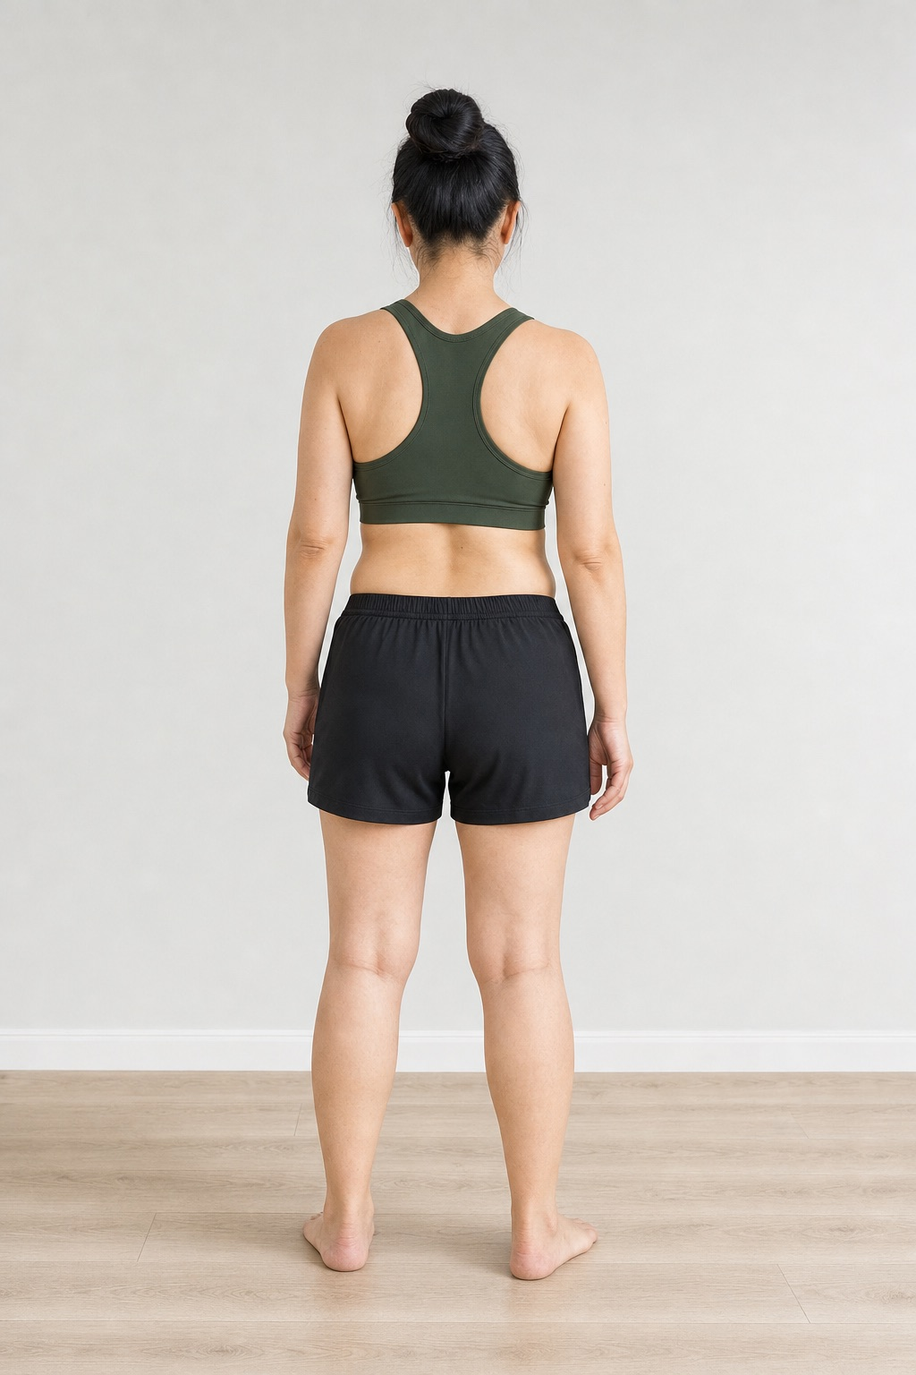
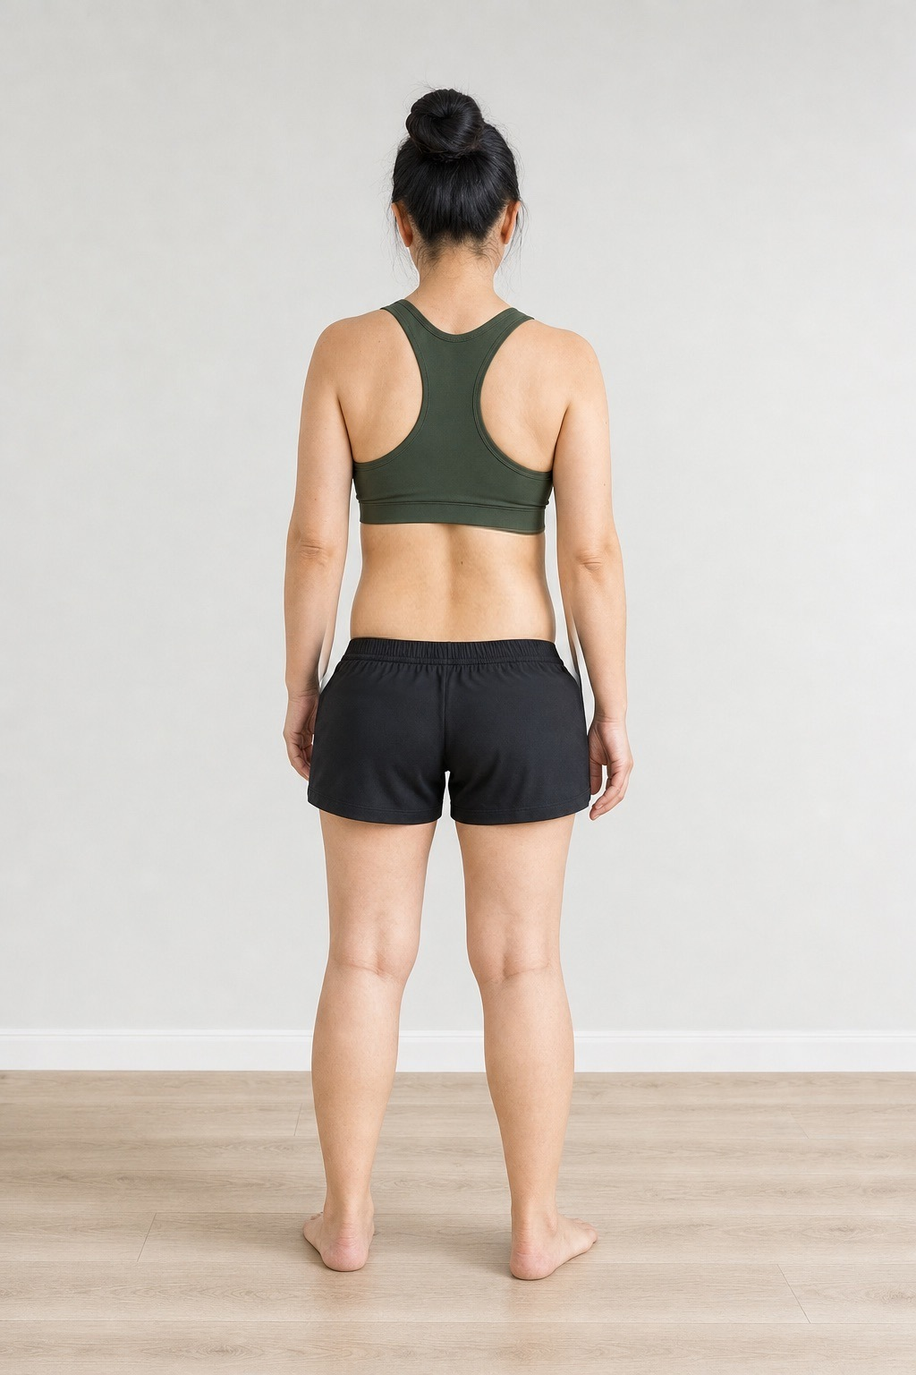
v1.6：穿著規範併入照片範例頁＋髂骨標示，範例圖褲頭降低、教學圖重產，移除獨立穿著頁

Changed region(s): [[0.3438, 0.375, 0.6562, 0.5]]

diff --git a/index.html b/index.html
@@ -123,7 +123,7 @@ p.hint{font-size:18px;margin:2px 0}
 .axfin .im{height:min(24vh,190px);overflow:hidden}.axfin .im img{height:100%;mix-blend-mode:multiply;filter:saturate(.6)}
 .axfin b{font-family:var(--fs);font-size:18px;color:var(--ink)}.axfin span{font-size:15px;color:var(--brown);letter-spacing:.1em}.axfin p{font-size:14px;line-height:1.5;margin:4px 0 0;text-align:left;color:var(--muted)}
 .axfin .plus{font-size:24px;color:var(--brown);text-align:center}
-.dress{display:flex;flex-direction:column;border:1px solid var(--line);border-radius:10px;overflow:hidden}.dress div{display:grid;grid-template-columns:64px 1fr;gap:10px;padding:10px 12px;font-size:17px;line-height:1.5}.dress div+div{border-top:1px solid var(--line)}.dress b{color:var(--brown);font-family:var(--fs)}
+.chk .chip{font-size:14px;padding:5px 10px;line-height:1.3;white-space:nowrap}.zoom{margin:12px 0 4px}.zoom img{width:100%;border-radius:6px;display:block}.zoom figcaption{font-size:15px;color:var(--ink);margin-top:6px;text-align:center}
 </style>
 </head>
 <body>
@@ -141,9 +141,9 @@ const ZT = [{name:'上半身', parts:['頭頸','肩膀','上背','手肘手腕']
 const DC={}; async function fillDC(){ const els=document.querySelectorAll('img[data-dc]'); if(!els.length) return; await demoP; els.forEach(el=>{ const k=el.dataset.dc; if(!DC[k]){ const b=k.split(',').map(Number), W=Math.min(900,Math.round(b[2]-b[0])), H=Math.round(W*(b[3]-b[1])/(b[2]-b[0])), c=document.createElement('canvas'); c.width=W; c.height=H; drawCrop(c.getContext('2d'),DEMO_IMG,b,W,H); DC[k]=c.toDataURL('image/jpeg',.88); } el.src=DC[k]; }); }
 const PRAISE = ['很好！','答得好！','你很認真喔','觀察得真仔細','做得很棒','就是這樣！','好棒，繼續加油'];
 const S = {doc:false, snd:true, i:0, t0:null, a:{}, mv:{}, ph:{mode:null,img:null,lm:null,ai:null}, crops:null, regions:null, cmp:{}, res:null, slide:0, rp:0, saved:false, fit:null, docJ:null};
-const FLOW = ['cover','brief','axes','pre', ...QS.map(q=>q.id), 'rw1', ...MOVES.map(m=>m.id), 'rw2', ...(TRIAL?[]:['ph0','ph1','ph2','ph3', ...PTS.map(p=>p.id), ...(CMPS.length>1?['look']:[]), ...CMPS.map(c=>c.id), 'rw3']), 'inter','scan','result'];
+const FLOW = ['cover','brief','axes','pre', ...QS.map(q=>q.id), 'rw1', ...MOVES.map(m=>m.id), 'rw2', ...(TRIAL?[]:['ph1','ph2','ph3', ...PTS.map(p=>p.id), ...(CMPS.length>1?['look']:[]), ...CMPS.map(c=>c.id), 'rw3']), 'inter','scan','result'];
 const STAGES = ['問一問','動一動','比一比','看結果'];
-const STAGE_OF = n => n==='cover'||n==='brief'||n==='pre'||n==='axes'?0 : n[0]==='Q'||n==='rw1'?1 : n[0]==='M'||n==='rw2'?2 : ['ph0','ph1','ph2','ph3','look','rw3'].includes(n)||n[0]==='P'||n[0]==='K'?3 : 4;
+const STAGE_OF = n => n==='cover'||n==='brief'||n==='pre'||n==='axes'?0 : n[0]==='Q'||n==='rw1'?1 : n[0]==='M'||n==='rw2'?2 : ['ph1','ph2','ph3','look','rw3'].includes(n)||n[0]==='P'||n[0]==='K'?3 : 4;
 const idc = id => S.doc ? `<span class="idchip">${id}</span>` : '';
 const RM = () => matchMedia('(prefers-reduced-motion: reduce)').matches;
 const F = d => `class="fade" style="animation-delay:${d}s"`;
@@ -192,7 +192,7 @@ function render(){
   const n=FLOW[S.i];
   if(n==='inter'||n==='scan'||(n==='result'&&!S.res)) S.res=score(CFG, ansOf());
   if(n==='result') saveEntry();
-  const V={cover:vCover, brief:vBrief, pre:vPre, axes:vAxes, rw1:()=>vReward(1), rw2:()=>vReward(2), rw3:()=>vReward(3), ph0:vPh0, ph1:vPh1, ph2:vPh2, ph3:vPh3, look:vLook, inter:vInter, scan:vScan, result:vResult};
+  const V={cover:vCover, brief:vBrief, pre:vPre, axes:vAxes, rw1:()=>vReward(1), rw2:()=>vReward(2), rw3:()=>vReward(3), ph1:vPh1, ph2:vPh2, ph3:vPh3, look:vLook, inter:vInter, scan:vScan, result:vResult};
   const body = V[n]?V[n]() : n[0]==='Q'?vQ(n) : n[0]==='M'?vMove(n) : n[0]==='K'?vPts(n) : vCmp(n);
   const on=S.snd&&AU.on, left=NOBACK.includes(n)?'<span>時空身體地圖・空間篇</span>':`<button class="bk" data-act="back">‹ 上一步</button>`;
   $('#app').innerHTML = `${PREVIEW?'<div class="pv">醫師預覽模式：正在使用你在後台編輯的設定</div>':''}<div class="top">${left}<div class="r"><button data-act="snd" aria-pressed="${on}">${on?'音樂 開':'音樂 關'}</button><button data-act="doc" aria-pressed="${S.doc}">醫師檢視</button></div></div>${stageBar()}${body}${n==='cover'?'<p class="foot">衛教內容僅供參考，個人狀況請由醫師判斷</p>':''}`;
@@ -279,13 +279,11 @@ function vMove(id){ const m=MOVES.find(x=>x.id===id), k=MOVES.indexOf(m)+1, v=S.
     ${!step2?`<h3>${esc(m.ask)}${idc(m.id)}</h3><div class="opts grid">${sides.map(o=>`<button class="opt c" data-act="mv" data-m="${m.id}" data-k="side" data-v="${o}" aria-pressed="${v.side===o}">${o}</button>`).join('')}</div>`
       :`<h3>${esc(v.side)}的感覺，比較像哪一種？</h3><div class="opts">${feel.map(o=>`<button class="opt" data-act="mv" data-m="${m.id}" data-k="feel" data-v="${o}">${o}</button>`).join('')}</div><button class="btn ghost small" data-act="mvreset" data-m="${m.id}" style="align-self:center">重選左右</button>`}
   </div>${note(m.note)}`; }
-function vPh0(){ const D=CFG.sources.dress; return `<div class="card"><span class="kicker">比一比｜拍照前準備</span><h2 class="mark">${esc(D.t)}</h2><p class="muted">${esc(D.sub)}</p>
-  <div class="dress">${D.rows.map(([a,b],i)=>`<div ${F(.05+i*.07)}><b>${esc(a)}</b><span>${esc(b)}</span></div>`).join('')}</div>${note(D.note)}
-  <button class="btn" data-act="next">換好了，看照片範例</button></div>`; }
-function vPh1(){ return `<div class="card"><span class="kicker">比一比｜拍一張背面照</span><h2 class="mark">照片要拍成這樣</h2>
-  <div class="row" style="align-items:center"><img src="img/demo_back.jpg" alt="正確的背面照範例" style="flex:1;max-height:42vh;object-fit:contain;border-radius:6px;background:var(--soft)"><div style="flex:1;display:flex;flex-direction:column;gap:10px" class="ui"><span class="chip">✓ 頭到腳都拍到</span><span class="chip">✓ 背對手機</span><span class="chip">✓ 肩膀露出來</span><span class="chip">✓ 膝蓋後面露出來</span><span class="chip">✓ 光腳</span></div></div>
-  <div class="ex2">${[[CFG.sources.stance.ok,'✓ '+CFG.sources.stance.t,''],[CFG.sources.stance.no,'✗ '+CFG.sources.stance.bad,'bad']].map(([src,cap,c])=>`<figure class="${c}"><img src="${src}" alt=""><figcaption>${esc(cap)}</figcaption></figure>`).join('')}</div>
-  <p class="muted sm">${esc(CFG.sources.stance.tip)}穿運動內衣或背心、短褲，頭髮綁起來。</p><button class="btn" data-act="next">看怎麼拍</button></div>`; }
+function vPh1(){ const D=CFG.sources.dress, st=CFG.sources.stance; return `<div class="card"><span class="kicker">比一比｜拍一張背面照</span><h2 class="mark">照片要拍成這樣</h2>
+  <div class="row" style="align-items:center"><img src="${D.img}" alt="正確的背面照範例" style="flex:1.05;min-width:0;max-height:40vh;object-fit:contain;border-radius:6px;background:var(--soft)"><div style="flex:1;display:flex;flex-direction:column;gap:6px" class="ui chk">${D.checks.map((t,i)=>`<span class="chip" ${F(.05+i*.05)}>✓ ${esc(t)}</span>`).join('')}</div></div>
+  ${D.zoom?`<figure class="zoom"><img src="${D.zoom}" alt="髂骨位置"><figcaption>${esc(D.zoomCap||'')}</figcaption></figure>`:''}${note(D.note)}
+  <div class="ex2">${[[st.ok,'✓ '+st.t,''],[st.no,'✗ '+st.bad,'bad']].map(([src,cap,c])=>`<figure class="${c}"><img src="${src}" alt=""><figcaption>${esc(cap)}</figcaption></figure>`).join('')}</div>
+  <p class="muted sm">${esc(st.tip)}</p><button class="btn" data-act="next">看怎麼拍</button></div>`; }
 function vPh2(){ const st=CFG.sources.photoSteps;
   return `<div class="card"><span class="kicker">比一比｜怎麼拍</span><h2 class="mark">用手機直直的錄影</h2><div class="flip big" data-flip data-steps="1">${st.map(([src],i)=>`<img src="${src}" alt="" class="${i===0?'on':''}">`).join('')}<div class="fd">${st.map((_,i)=>`<i class="${i===0?'on':''}"></i>`).join('')}</div><div class="cap" hidden data-caps='${JSON.stringify(st.map(f=>f[1])).replace(/'/g,'&#39;')}'></div></div>
   <ol class="bigsteps">${st.map(([,t],i)=>`<li class="${i===0?'on':''}"><b>${i+1}</b>${esc(t)}</li>`).join('')}</ol><button class="btn" data-act="next">錄好了，下一步</button></div>`; }
@@ -351,7 +349,7 @@ function reportPages(){
   P.push(['一眼看懂',`<span class="kicker" ${F(0)}>一眼看懂</span><div ${F(.1)}>${qpTag(r.qs,r.main||r.lean,{w:620,src:'user'},'mapimg')}${lvLegend()}</div>
     <p class="say" ${F(.35)}>${say}</p>${r.main?`<div class="sure" ${F(.6)}>${dots(r.nAgree)}<span>${r.nAgree>=3?'三個提示都這樣說':'三個提示裡有兩個這樣說'}</span></div>`:''}${S.a.struct==='有'?`<div class="warnbox" ${F(.7)}>${esc(EX.pre.caveat)}</div>`:''}${TRIAL?`<div class="warnbox" ${F(.7)}>試用版只用了回答和動作。完整版會加上一張背面照，看得更準。</div>`:''}<p class="muted sm" ${F(.75)}>${esc(EX.disclaimer)}往後翻，看為什麼、今天可以做什麼。</p>`]);
   if(prevs.length) P.push(['這段時間的變化',`<span class="kicker">這段時間的變化</span><h2 class="mark">你已經記錄 ${H.length} 次了</h2><div class="histrow">${H.slice(-6).map(e=>`<div class="hm ${e.id===S.entryId?'now':''}">${qpTag(qsOf(e),e.m,{w:150,labels:false})}<span>${esc(e.d)}${e.id===S.entryId?'（今天）':''}${e.demo?'＊':''}</span></div>`).join('')}</div>${chartSVG(H.slice(-6))}<p>${changeSentence(H.slice(-6))}</p>${H.some(e=>e.demo)?'<p class="muted sm">＊示範紀錄</p>':''}`]);
-  P.push(['為什麼這樣說',`<span class="kicker">為什麼這樣說</span><h2 class="mark">你今天找到 ${r.votes.length} 個提示</h2><div class="row" style="align-items:flex-start"><div style="flex:1">${hasPhoto?'<img id="annot" alt="" style="width:100%;border-radius:6px;max-height:46vh;object-fit:contain;background:#2a2420">':qpTag(r.qs,r.main,{w:300,labels:false})}</div>
+  P.push(['為什麼這樣說',`<span class="kicker">為什麼這樣說</span><h2 class="mark">你今天找到 ${r.votes.length} 個提示</h2><div class="row" style="align-items:flex-start"><div style="flex:1">${hasPhoto?'<img id="annot" alt="" style="width:100%;border-radius:6px;max-height:40vh;object-fit:contain;background:#2a2420">':qpTag(r.qs,r.main,{w:300,labels:false})}</div>
     <div style="flex:1.1;display:flex;flex-direction:column;gap:8px"><div class="quad2">${QUADS.map(cell).join('')}</div><div class="ui sm" style="display:flex;flex-direction:column;gap:4px">${r.votes.map(v=>`<span>・${esc(v.label)}</span>`).join('')||'這次沒有明確的提示'}${S.a.scar&&S.a.scar!=='沒有'?`<span class="muted">・${esc(S.a.scar)}有開刀的疤（不計分，醫師會參考）</span>`:''}</div></div></div>
     <p class="muted sm">至少 ${CFG.logic.minAgree} 種提示（回答、動作、照片）指向同一邊，才會說「這邊比較緊繃」。輕微不一樣很正常。</p>`]);
   const finds=[];
@@ -454,7 +452,7 @@ function annotate(){ const el=$('#annot'); if(!el||!S.ph.img) return; const {img
 
 // ---------- 回報（直接送到 Benson 信箱） ----------
 const RK='sk_reports_v1';
-function screenCtx(){ const n=FLOW[S.i], item=QS.find(x=>x.id===n)||MOVES.find(x=>x.id===n)||CMPS.find(x=>x.id===n); const stage=n==='pre'?'使用前先知道':n[0]==='Q'?'問答':n[0]==='M'?'動作':n[0]==='P'?'照片對照':n==='result'?'結果報告第 '+(S.rp+1)+' 頁':n==='inter'?'完成過場':(['ph0','ph1','ph2','ph3','look'].includes(n)||n[0]==='K')?'照片':'其他'; return {n, stage, id:item?item.id:n, text:item?(item.t||item.ask||''):''}; }
+function screenCtx(){ const n=FLOW[S.i], item=QS.find(x=>x.id===n)||MOVES.find(x=>x.id===n)||CMPS.find(x=>x.id===n); const stage=n==='pre'?'使用前先知道':n[0]==='Q'?'問答':n[0]==='M'?'動作':n[0]==='P'?'照片對照':n==='result'?'結果報告第 '+(S.rp+1)+' 頁':n==='inter'?'完成過場':(['ph1','ph2','ph3','look'].includes(n)||n[0]==='K')?'照片':'其他'; return {n, stage, id:item?item.id:n, text:item?(item.t||item.ask||''):''}; }
 function openReport(){ const ctx=screenCtx(), types=['看不懂','結果不準','畫面怪怪的','我有建議'];
   const sh=document.createElement('div'); sh.className='sheet'; sh.id='sheet';
   sh.innerHTML=`<div class="in" role="dialog" aria-label="回報"><div class="row" style="align-items:center"><h3 style="flex:3">回報給我們</h3><button class="btn ghost small" data-act="closerep" style="flex:none">關閉</button></div>

diff --git a/doctor.html b/doctor.html
@@ -98,7 +98,7 @@ function vSrc(){ const s=CFG.sources;
       ${fld('名稱',P+'.name')}${fld('問學員',P+'.ask')}${fld('算在',P+'.half','half')}${fld('權重倍數',P+'.w','num',{hint:'× 感覺分數'})}${fld('安全提醒（可空白）',P+'.safety')}${fld('教學文字',P+'.teach','area')}
       ${(m.frames||[]).map((fr,j)=>fld('步驟 '+(j+1),P+'.frames.'+j+'.1')).join('')}${fld('備註／依據',P+'.note','area')}</div>`; }).join('')}
     <button class="btn ghost small addbtn" data-act="addM">＋ 新增動作（示範圖由 PPA 補拍）</button></div>
-    <div class="sec"><h2>拍照前準備：穿著（學員必經）</h2>${s.dress?fld('標題','sources.dress.t')+fld('說明','sources.dress.sub')+s.dress.rows.map((r,j)=>fld(r[0],'sources.dress.rows.'+j+'.1','area')).join(''):''}</div>
+    <div class="sec"><h2>照片範例頁：穿著與拍照檢查清單</h2>${s.dress&&s.dress.checks?fld('髂骨特寫說明','sources.dress.zoomCap')+fld('下方小字','sources.dress.note','area')+s.dress.checks.map((r,j)=>fld('第 '+(j+1)+' 條','sources.dress.checks.'+j)).join(''):''}</div>
     <div class="sec"><h2>拍照教學（學員必經）</h2>
       ${(s.photoSteps||[]).map((st,j)=>fld('步驟 '+(j+1),'sources.photoSteps.'+j+'.1')).join('')}
       ${s.stance?fld('標準站姿（正確）','sources.stance.t')+fld('不標準的樣子','sources.stance.bad')+fld('站姿小提醒','sources.stance.tip','area'):''}${fld('截圖頁標題','sources.photoShot.t')}${fld('截圖頁說明','sources.photoShot.sub','area')}</div>
@@ -177,7 +177,7 @@ function vSend(){ const changes=diffCfg(D, CFG);
 const LBL={tip:'說明',ratio2:'給2分的左右比',ratio1:'給1分的左右比',tilt2:'給2分的傾斜',tilt1:'給1分的傾斜',tiltMax:'無參照最多給',on:'啟用',see:'看哪裡',mean:'代表什麼',end:'最後一句',safety:'安全提醒',items:'三件事',caveat:'提醒',ask:'問學員',tip:'小提醒',max:'上限分數',t:'題目',sub:'說明',o:'選項',name:'名稱',ask:'問學員',how:'怎麼看',half:'算在',w:'權重',teach:'教學文字',see:'教學：看哪裡',mean:'教學：代表什麼',enabled:'啟用',note:'備註',area:'白話區域',say:'一句話結論',unit:'優先章節',todo:'今天可以先做',ch:'章節',why:'為什麼看',mode:'計分方式',minScore:'最低緊繃分數',minAgree:'至少幾種來源同向',minDeg:'角度門檻',photoRequest:'照片點位需求',nightMove:'睡前動作說明',disclaimer:'不是診斷的提醒'};
 function flat(o, pre, out){ if(Array.isArray(o)&&o.length&&typeof o[0]==='object'&&!Array.isArray(o[0])&&o[0].id){ o.forEach(x=>flat(x, pre+'〔'+x.id+'〕', out)); return out; }
   if(o&&typeof o==='object'&&!Array.isArray(o)){ Object.keys(o).forEach(k=>flat(o[k], pre?pre+'.'+k:k, out)); return out; } out[pre]=o; return out; }
-const SEC={dress:'穿著準備',rows:'項目',measure:'照片量測',cues:'量測項目',axes:'四個方向',points:'確認點位',pre:'使用前先知道',stance:'站姿',injuryTodo:'舊傷建議',scarTodo:'疤痕建議',points:'確認點位',photoSteps:'拍照步驟',photoShot:'截圖頁',levels:'分數等級',questions:'問診',moves:'動作',compares:'照片',units:'章節',quadrants:'結論',feelWeight:'感覺分數',aiMeasure:'電腦量角度',fixedTodo:'姿勢建議',feelText:'感覺說明',score:'計分',map:'對應',none:'不明顯',frames:'步驟'};
+const SEC={dress:'穿著檢查清單',checks:'清單',measure:'照片量測',cues:'量測項目',axes:'四個方向',points:'確認點位',pre:'使用前先知道',stance:'站姿',injuryTodo:'舊傷建議',scarTodo:'疤痕建議',points:'確認點位',photoSteps:'拍照步驟',photoShot:'截圖頁',levels:'分數等級',questions:'問診',moves:'動作',compares:'照片',units:'章節',quadrants:'結論',feelWeight:'感覺分數',aiMeasure:'電腦量角度',fixedTodo:'姿勢建議',feelText:'感覺說明',score:'計分',map:'對應',none:'不明顯',frames:'步驟'};
 const nice = p => p.replace(/^(sources|logic|explain)\./,'').split('.').map(k=>LBL[k]||SEC[k]||QN[k]||(/^\d+$/.test(k)?'':k)).filter(Boolean).join(' ').replace(/\s+〔/g,'〔').trim();
 const show = v => Array.isArray(v)?v.map(x=>Array.isArray(x)?x[1]:x&&typeof x==='object'?(x.name!=null?x.name+(x.max!=null?'（到 '+x.max+' 分）':''):JSON.stringify(x)):x).join('／'):typeof v==='boolean'?(v?'是':'否'):v==null?'（無）':String(v);
 function diffCfg(a,b){ const A=flat(a,'',{}), B=flat(b,'',{}), keys=[...new Set([...Object.keys(A),...Object.keys(B)])].filter(k=>k!=='version'), out=[];

diff --git a/engine.js b/engine.js
@@ -3,10 +3,10 @@
 // =====================================================================
 const QN = {LU:'左上',RU:'右上',LD:'左下',RD:'右下'};
 const QUADS = ['LU','RU','LD','RD'];
-const DEMO_LM = { earL:[481,222,1], earR:[554,233,1], shL:[379,395,1], shR:[648,412,1], wrL:[349,780,.74], wrR:[683,801,.88], idxL:[344,824,.61], idxR:[680,845,.78], hipL:[429,764,1], hipR:[575,765,1], knL:[417,1075,.94], knR:[587,1084,.98], anL:[394,1359,.95], anR:[607,1361,.97], heL:[399,1407,.91], heR:[594,1406,.95],
+const DEMO_LM = { earL:[481,222,1], earR:[554,233,1], shL:[379,395,1], shR:[648,412,1], wrL:[349,780,.74], wrR:[683,801,.88], idxL:[344,824,.61], idxR:[680,845,.78], hipL:[429,774,1], hipR:[575,774,1], knL:[417,1075,.94], knR:[587,1084,.98], anL:[394,1359,.95], anR:[607,1361,.97], heL:[399,1407,.91], heR:[594,1406,.95],
   nkL:[455,332,1], nkR:[557,336,1], stL:[368,360,1], stR:[645,367,1], uoL:[345,410,1], uoR:[672,415,1],
   umL:[358,540,1], umR:[650,540,1], olL:[348,610,1], olR:[657,628,1], fmL:[341,720,1], fmR:[667,720,1],
-  wcL:[349,782,1], wcR:[683,801,1], hcL:[346,806,1], hcR:[682,825,1], icL:[393,643,1], icR:[618,643,1],
+  wcL:[349,782,1], wcR:[683,801,1], hcL:[346,806,1], hcR:[682,825,1], icL:[393,680,1], icR:[618,680,1],
   piL:[458,1082,1], poL:[407,1083,1], koL:[373,1083,1], piR:[543,1088,1], poR:[613,1088,1], koR:[642,1090,1],
   a1L:[392,1285,1], a2L:[390,1375,1], hbL:[392,1417,1], a1R:[594,1285,1], a2R:[595,1380,1], hbR:[587,1425,1] };
 const PT_KEYS = Object.keys(DEMO_LM);
@@ -61,7 +61,7 @@ const clone = o => JSON.parse(JSON.stringify(o));
 const PREVIEW_KEY = 'sk_cfg_preview';
 function migrateCfg(c){ if(!c||!c.sources) return c; const qs=c.sources.questions, i=qs.findIndex(q=>q.type==='bodymap'&&q.zone==null);
   if(i>=0){ const def=window.DEFAULT_CONFIG.sources.questions.filter(q=>q.type==='bodymap'); qs.splice(i,1,...clone(def)); }
-  const D=window.DEFAULT_CONFIG; ['points','photoSteps','photoShot','dress'].forEach(k=>{ if(!c.sources[k]) c.sources[k]=clone(D.sources[k]); }); if(c.explain&&!c.explain.levels) c.explain.levels=clone(D.explain.levels);
+  const D=window.DEFAULT_CONFIG; ['points','photoSteps','photoShot','dress'].forEach(k=>{ if(!c.sources[k]) c.sources[k]=clone(D.sources[k]); }); if(!c.sources.dress.checks) c.sources.dress=clone(D.sources.dress); if(c.explain&&!c.explain.levels) c.explain.levels=clone(D.explain.levels);
   if(c.explain&&c.explain.levels&&c.explain.levels[0].name==='還好') c.explain.levels=clone(D.explain.levels);
   ['pre','injuryTodo','scarTodo'].forEach(k=>{ if(c.explain&&c.explain[k]==null) c.explain[k]=clone(D.explain[k]); }); if(!c.sources.stance) c.sources.stance=clone(D.sources.stance);
   (c.sources.compares||[]).forEach(cp=>{ const d=D.sources.compares.find(x=>x.key===cp.key); if(cp.key==='L2'&&cp.ex&&cp.ex.some(e=>/knee_/.test(e[0]))){ delete cp.ex; Object.assign(cp,{ask:d.ask,how:d.how,see:d.see,mean:d.mean}); } if(cp.key==='U4'&&!cp.ex&&d.ex){ cp.ex=clone(d.ex); Object.assign(cp,{ask:d.ask,how:d.how,see:d.see,mean:d.mean}); } });

diff --git a/stats.html b/stats.html
@@ -35,9 +35,9 @@ body{font-size:14.5px}
 <script>
 const $=s=>document.querySelector(s), esc=s=>String(s??'').replace(/[&<>"]/g,c=>({'&':'&amp;','<':'&lt;','>':'&gt;','"':'&quot;'}[c]));
 const KEY=new URLSearchParams(location.search).get('key')||'';
-const NAME={ph0:'拍照前穿著',axes:'四個方向',K5:'確認點位5 膝後',K6:'確認點位6 腳跟',pre:'使用前先知道',feet_out:'外八提醒',K1:'確認點位1 肩膀',K2:'確認點位2 手肘',K3:'確認點位3 手腕手掌',K4:'確認點位4 骨盆',cover:'封面',brief:'四件事說明',rw1:'第1段完成',rw2:'第2段完成',rw3:'第3段完成',ph1:'拍照範例',ph2:'怎麼拍',ph3:'選照片',points:'確認點位',look:'看哪裡',inter1:'過場：謝謝你',inter2:'過場：什麼是空間',inter3:'過場：痛不一定是源頭',scan:'分析動畫',report1:'報告：一眼看懂',report2:'報告 p2',report3:'報告 p3',report4:'報告 p4',report5:'報告 p5',report6:'報告 p6',report7:'報告 p7',report8:'報告 p8'};
+const NAME={ph0:'拍照前穿著',axes:'四個方向',K5:'確認點位5 膝後',K6:'確認點位6 腳跟',pre:'使用前先知道',feet_out:'外八提醒',K1:'確認點位1 肩膀',K2:'確認點位2 手肘',K3:'確認點位3 手腕手掌',K4:'確認點位4 骨盆',cover:'封面',brief:'四件事說明',rw1:'第1段完成',rw2:'第2段完成',rw3:'第3段完成',ph1:'拍照範例＋穿著',ph2:'怎麼拍',ph3:'選照片',points:'確認點位',look:'看哪裡',inter1:'過場：謝謝你',inter2:'過場：什麼是空間',inter3:'過場：痛不一定是源頭',scan:'分析動畫',report1:'報告：一眼看懂',report2:'報告 p2',report3:'報告 p3',report4:'報告 p4',report5:'報告 p5',report6:'報告 p6',report7:'報告 p7',report8:'報告 p8'};
 const C=window.DEFAULT_CONFIG; [...C.sources.questions,...C.sources.moves,...C.sources.compares].forEach(x=>NAME[x.id]=x.id+' '+(x.name||x.t||'').slice(0,12));
-const ORDER=['cover','brief','axes','pre',...C.sources.questions.map(q=>q.id),'rw1',...C.sources.moves.map(m=>m.id),'rw2','ph0','ph1','ph2','ph3',...(C.sources.points||[]).map(p=>p.id),'points','look',...C.sources.compares.map(c=>c.id),'rw3','inter1','inter2','inter3','scan','report1','report2','report3','report4','report5','report6','report7','report8'];
+const ORDER=['cover','brief','axes','pre',...C.sources.questions.map(q=>q.id),'rw1',...C.sources.moves.map(m=>m.id),'rw2','ph1','ph2','ph3',...(C.sources.points||[]).map(p=>p.id),'points','look',...C.sources.compares.map(c=>c.id),'rw3','inter1','inter2','inter3','scan','report1','report2','report3','report4','report5','report6','report7','report8'];
 let DATA=null, ROLE='全部';
 const med=a=>{ if(!a.length) return 0; const s=[...a].sort((x,y)=>x-y), m=s.length>>1; return s.length%2?s[m]:(s[m-1]+s[m])/2; };
 const fmt=ms=>ms>=60000?(ms/60000).toFixed(1)+' 分':Math.round(ms/1000)+' 秒';

diff --git a/config.js b/config.js
@@ -4,7 +4,7 @@
 // =====================================================================
 window.BACKEND = 'https://script.google.com/macros/s/AKfycbz8lEGJFReE5NFtCD-TPk5BOZ6q5McjiMcM2KiPZIcuFl-YCtWTg0tIO89gZBuQdIlc/exec';
 window.DEFAULT_CONFIG = {
-  version: 'v1.5',
+  version:'v1.6',
   sources: {
     questions: [
       {id:'Q1a', enabled:true, key:'pain', type:'bodymap', zone:0, t:'上半身，哪裡常痠痛？', sub:'點圓圈，可以點很多個。', score:{mode:'none'},
@@ -33,7 +33,7 @@ window.DEFAULT_CONFIG = {
        safety:'旁邊一定要有牆或椅子，晃了就馬上扶回去。', ask:'手離開牆以後，站在哪一隻腳上比較會晃？', teach:'單腳站看的是身體的地基穩不穩。比較會晃的那一腳，那一邊的腳、膝蓋、屁股比較緊繃。', note:'11/24 黃醫師：抬腳後手要離開牆，再看穩定還是會晃。'}
     ],
     photoSteps: [['img/rec1.jpg','按下錄影'],['img/rec_stand.jpg','站在線上，兩腳平行，全身放鬆'],['img/rec3.jpg','回頭檢查，確定有拍到全身']],
-    dress: {t:'先換好衣服', sub:'衣服遮住，電腦就量不準。照這張表準備：', rows:[['腳','赤足，不穿襪子、拖鞋'],['下身','短褲，褲管不超過大腿中段'],['褲頭','拉到腰兩側骨頭（髂骨嵴）以下'],['上身','男性赤膊；女性穿露背運動內衣或開背衣。肩膀、脖子、上背要完整露出'],['頭髮','長髮盤起，露出脖子和兩側肩膀線'],['飾品','手錶、手鍊、項鍊拿掉']], note:'依黃醫師《用戶拍照規範》'},
+    dress: {img:'img/demo_back.jpg', zoom:'img/demo_iliac.jpg', zoomCap:'褲頭拉到髂骨以下，電腦才找得到骨盆', checks:['頭到腳都拍到','背對手機','光腳','短褲不過大腿中段','褲頭在髂骨以下','男生赤膊','女生露背運動內衣','長髮盤起','拿掉手錶、項鍊'], note:'依黃醫師《用戶拍照規範》：衣服遮住，電腦就量不準。'},
     stance: {t:'兩腳平行，和肩膀差不多寬', bad:'外八（腳尖往外）不準', ok:'img/feet_par.jpg', no:'img/feet_out.jpg', tip:'找地板的線或貼一條膠帶，兩腳內側都跟線平行。', note:'11/24 黃醫師：兩腳內側平行（太極平行步），外八會把落差縮小，照片就看不準。寬度（肩寬或髖寬）待確認。'},
     photoShot: {img:'img/shot.jpg', t:'截一張圖', sub:'打開剛剛的影片，停在站好不動的那一刻，截圖。'},
     points: [
